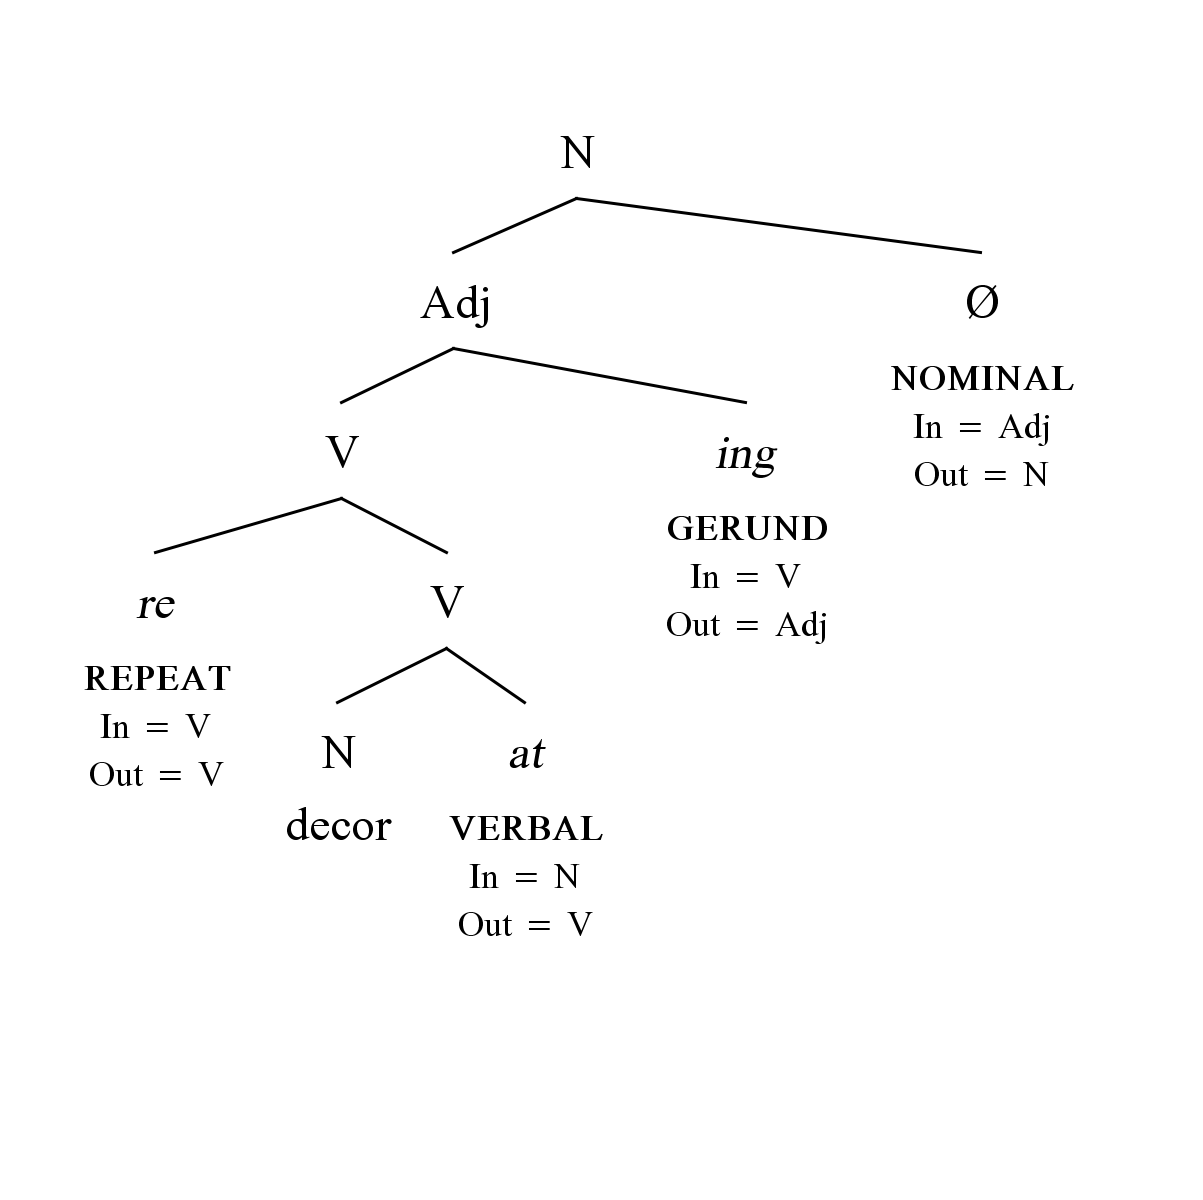
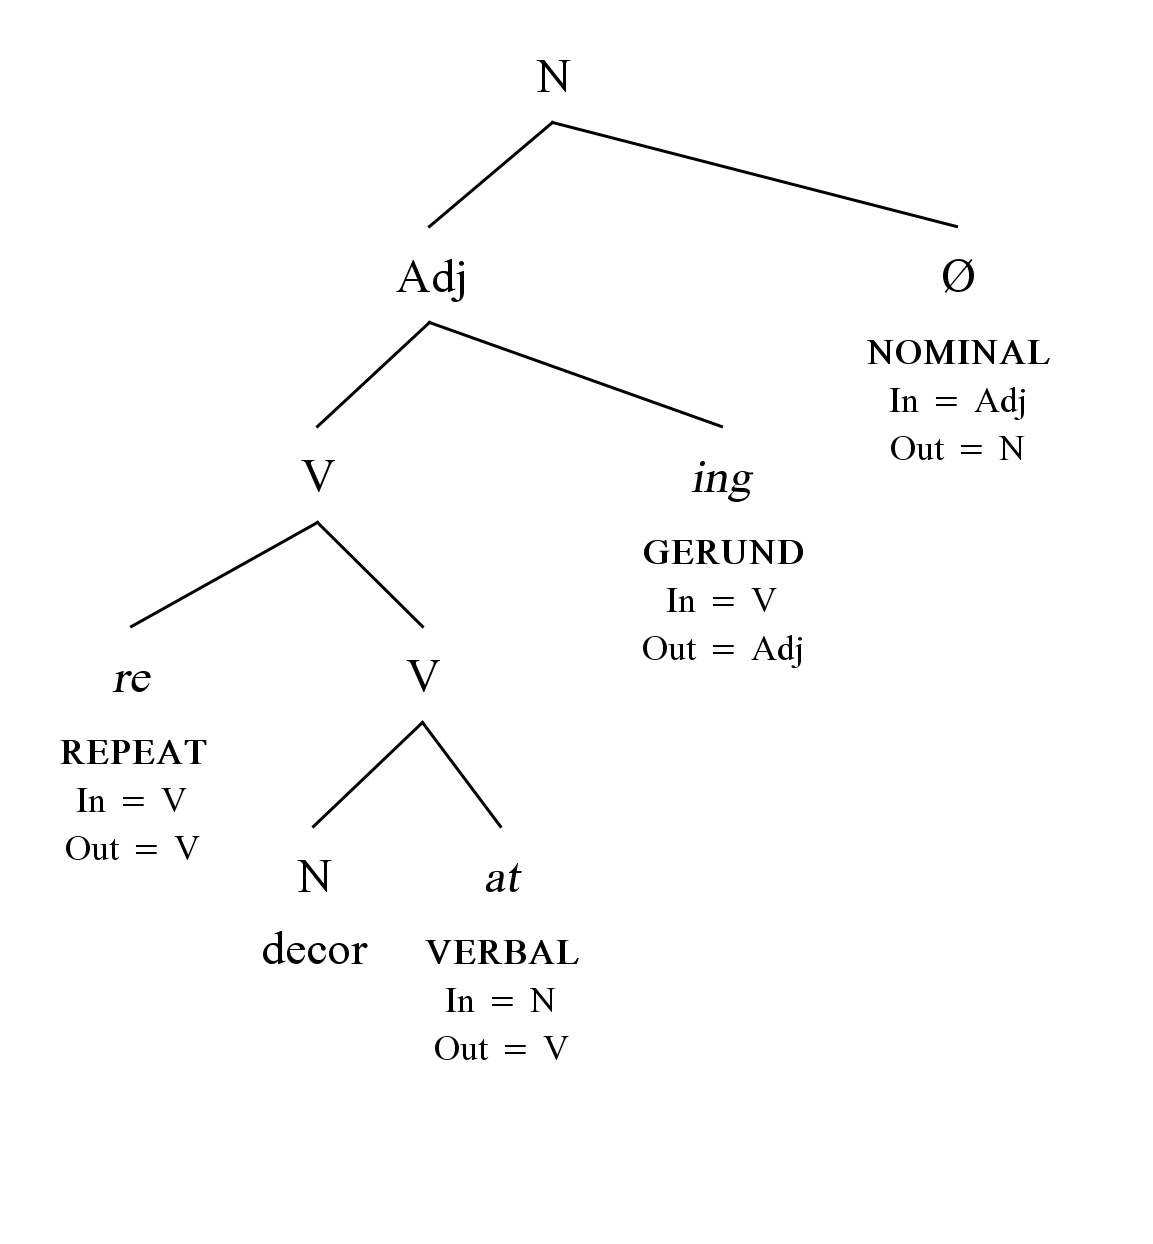
minor spacing alterations

diff --git a/SRC/JSyntaxTree.java b/SRC/JSyntaxTree.java
@@ -14,7 +14,8 @@ import javax.swing.*;
 public class JSyntaxTree extends JApplet {
     static int fontSize = 48;
     static int spacingX = 50;
-    static int spacingY = 150;
+    static int spacingY = 200;
+    static int border = 50;
     static JFrame f;
 
     static String output_file = "OUTPUT.png";
@@ -51,7 +52,7 @@ public class JSyntaxTree extends JApplet {
         
         g2.setPaint(Color.BLACK);
 
-        paintNode(spacingX, spacingY, g2, NS);
+        paintNode(border - (fontSize / 2), border + (fontSize / 2), g2, NS);
     }
 
     public static void paintNode(int _x, int _y, Graphics g, Node n) {
@@ -222,13 +223,15 @@ public class JSyntaxTree extends JApplet {
             spacingX = Integer.valueOf(getOption(args, "-sx"));
         if (getOption(args, "-sy") != null)
             spacingY = Integer.valueOf(getOption(args, "-sy"));
+        if (getOption(args, "-b") != null)
+            border = Integer.valueOf(getOption(args, "-b"));
 
         font = new Font(font_name, Font.PLAIN, fontSize);
         NS = Interpreter.interpret(filename);
-        height = (NS.getDepth() + 4) * spacingY;
+        height = NS.getDepth() + spacingY + border * 2;
 
         //Graphics2D g2 = new Graphics2D();
-       width = NS.getWidth(true) + spacingX * 3;
+       width = NS.getWidth(true) + border * 2;
 
         if (!instant_quit) {
         f = new JFrame("JSyntaxTree");

diff --git a/SRC/Node.java b/SRC/Node.java
@@ -31,9 +31,12 @@ public class Node {
 	public int getDepth() {
 		int depth = 0;
 		for (Node n : subNodes) {
-			int tent_depth = n.getDepth() + 1;
+			int tent_depth = n.getDepth() + JSyntaxTree.spacingY;
 			if (tent_depth > depth)
 				depth = tent_depth;
+		}
+		if (subNodes.isEmpty()) {
+			return metadata.split("\\\\n").length * JSyntaxTree.fontSize;
 		}
 		return depth;
 	}

diff --git a/README.md b/README.md
@@ -12,7 +12,7 @@ Options:
 
 OPTIONAL:
 
-`-o FILENAME`	output file (include the .png or .jpg)
+`-o FILENAME`	output file (include the .png, .jpg, etc.)
 
 `-f FONTNAME`	font
 
@@ -25,6 +25,8 @@ OPTIONAL:
 `-sy SPACE`		spacing between adjacent nodes vertically
 
 `-c`			DO IT IN COLOR
+
+`-q`			quits right after generation - no preview window
 
 Syntax:
 
@@ -41,6 +43,8 @@ Generally just bracket notation, with some text effects:
 `$WORDS$` smaller font
 
 `@WORDS@` underline
+
+`#WORDS#` highlight
 
 If you need to have multiple words in a token, use the ` around the words.
 
